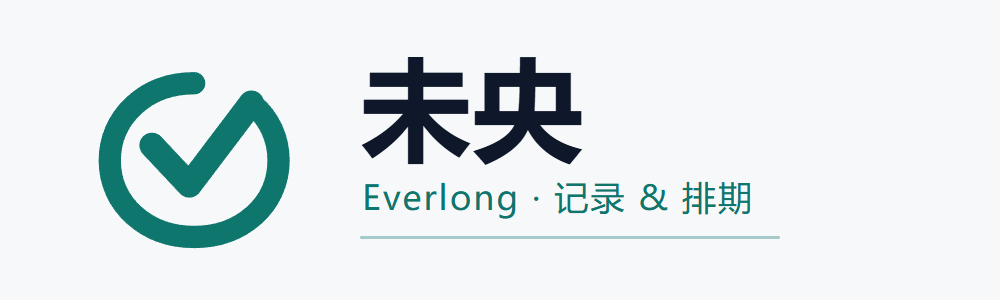
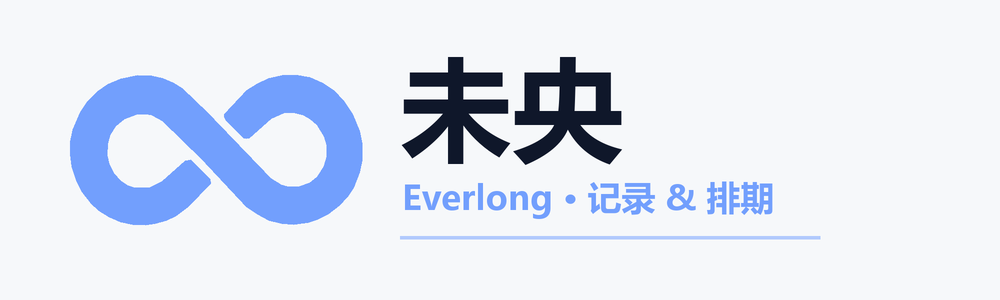
feat(brand): 全新「无限环」品牌标志
- 标志图形换成两环交叠、接续不断的无限环，替换原来「未央环 + 对勾」的设计

- 同步更新网页页签图标、PWA 应用图标（192/512）、手环端图标、二维码中心标志与 brand/ 品牌资源

- 界面内矢量标志（BrandMark）改用新路径，界面主色与其它配色保持不变

- 版本号与更新日志更新到 v0.8.1

Changed region(s): [[0.062, 0.18, 0.775, 0.84], [0.341, 0.78, 0.837, 0.81]]

diff --git a/apps/frontend/src/components/BrandMark.tsx b/apps/frontend/src/components/BrandMark.tsx
@@ -1,29 +1,18 @@
+const MARK_PATH =
+  'M 0.00 98.00 C 0.25 103.08 0.67 107.00 2.00 112.50 C 3.33 118.00 5.83 125.75 8.00 131.00 C 10.17 136.25 12.00 139.50 15.00 144.00 C 18.00 148.50 22.58 154.25 26.00 158.00 C 29.42 161.75 31.83 163.75 35.50 166.50 C 39.17 169.25 43.50 172.17 48.00 174.50 C 52.50 176.83 57.67 179.00 62.50 180.50 C 67.33 182.00 71.92 182.92 77.00 183.50 C 82.08 184.08 88.42 184.17 93.00 184.00 C 97.58 183.83 100.33 183.42 104.50 182.50 C 108.67 181.58 113.83 180.08 118.00 178.50 C 122.17 176.92 125.13 175.64 129.50 173.00 C 133.92 170.33 139.11 167.45 144.50 162.50 C 151.67 155.92 167.92 139.25 172.50 133.50 C 173.88 131.77 173.41 129.70 172.00 128.00 C 167.92 123.08 153.08 107.83 148.00 104.00 C 145.90 102.42 143.60 103.41 141.50 105.00 C 135.67 109.42 120.17 125.08 113.00 130.50 C 107.86 134.38 104.08 136.25 98.50 137.50 C 92.92 138.75 84.17 138.42 79.50 138.00 C 75.72 137.66 73.42 136.42 70.50 135.00 C 67.58 133.58 64.75 131.83 62.00 129.50 C 59.25 127.17 56.33 124.33 54.00 121.00 C 51.67 117.67 49.42 113.25 48.00 109.50 C 46.58 105.75 45.83 102.67 45.50 98.50 C 45.17 94.33 45.33 88.67 46.00 84.50 C 46.67 80.33 47.83 77.08 49.50 73.50 C 51.17 69.92 53.17 66.25 56.00 63.00 C 58.83 59.75 62.33 56.42 66.50 54.00 C 70.67 51.58 76.75 49.50 81.00 48.50 C 85.25 47.50 88.83 47.83 92.00 48.00 C 95.17 48.17 96.99 48.27 100.00 49.50 C 103.67 51.00 109.23 52.81 114.00 57.00 C 124.33 66.08 144.92 86.58 162.00 104.00 C 179.08 121.42 205.25 150.33 216.50 161.50 C 221.07 166.04 224.83 168.17 229.50 171.00 C 234.17 173.83 239.50 176.58 244.50 178.50 C 249.50 180.42 254.50 181.67 259.50 182.50 C 264.50 183.33 269.00 183.75 274.50 183.50 C 280.00 183.25 287.67 182.00 292.50 181.00 C 297.02 180.06 299.50 179.17 303.50 177.50 C 307.50 175.83 312.00 173.83 316.50 171.00 C 321.00 168.17 326.50 164.08 330.50 160.50 C 334.50 156.92 337.58 153.25 340.50 149.50 C 343.42 145.75 345.54 142.91 348.00 138.00 C 350.50 133.00 353.75 125.08 355.50 119.50 C 357.25 113.92 358.00 110.33 358.50 104.50 C 359.00 98.67 359.00 90.42 358.50 84.50 C 358.00 78.58 357.40 75.02 355.50 69.00 C 353.58 62.92 350.25 54.25 347.00 48.00 C 343.75 41.75 339.92 36.33 336.00 31.50 C 332.08 26.67 327.92 22.67 323.50 19.00 C 319.08 15.33 314.42 12.17 309.50 9.50 C 304.58 6.83 298.92 4.58 294.00 3.00 C 289.08 1.42 285.58 0.50 280.00 0.00 C 274.42 -0.50 266.58 -0.67 260.50 0.00 C 254.42 0.67 248.67 2.25 243.50 4.00 C 238.33 5.75 233.92 8.00 229.50 10.50 C 225.08 13.00 221.41 14.86 217.00 19.00 C 210.33 25.25 194.17 42.67 189.50 48.00 C 188.70 48.92 188.76 49.81 189.00 51.00 C 189.25 52.25 189.68 54.04 191.00 55.50 C 195.00 59.92 208.75 73.67 213.00 77.50 C 214.08 78.48 215.33 78.50 216.50 78.50 C 217.67 78.50 218.87 78.42 220.00 77.50 C 225.08 73.33 239.92 58.58 247.00 53.50 C 252.46 49.58 258.00 48.17 262.50 47.00 C 266.96 45.84 270.08 46.08 274.00 46.50 C 277.92 46.92 282.50 48.17 286.00 49.50 C 289.50 50.83 292.17 52.50 295.00 54.50 C 297.83 56.50 300.32 58.20 303.00 61.50 C 305.83 65.00 310.00 71.42 312.00 75.50 C 313.92 79.42 314.50 81.83 315.00 86.00 C 315.50 90.17 315.58 96.08 315.00 100.50 C 314.42 104.92 313.50 108.42 311.50 112.50 C 309.50 116.58 305.92 121.75 303.00 125.00 C 300.08 128.25 297.50 130.08 294.00 132.00 C 290.50 133.92 286.25 135.67 282.00 136.50 C 277.75 137.33 272.33 137.33 268.50 137.00 C 264.67 136.67 262.55 136.19 259.00 134.50 C 255.33 132.75 250.74 130.65 246.50 126.50 C 231.50 111.83 187.17 64.83 169.00 46.50 C 156.75 34.14 144.58 22.67 137.50 16.50 C 133.57 13.08 130.50 11.58 126.50 9.50 C 122.50 7.42 117.92 5.42 113.50 4.00 C 109.08 2.58 105.08 1.58 100.00 1.00 C 94.92 0.42 89.25 -0.08 83.00 0.50 C 76.75 1.08 68.58 2.67 62.50 4.50 C 56.42 6.33 51.25 8.92 46.50 11.50 C 41.75 14.08 38.25 16.42 34.00 20.00 C 29.75 23.58 24.58 28.75 21.00 33.00 C 17.42 37.25 15.27 40.12 12.50 45.50 C 9.58 51.17 5.50 60.92 3.50 67.00 C 1.59 72.81 1.08 76.83 0.50 82.00 C -0.08 87.17 -0.25 92.92 0.00 98.00 Z'
+
 export function BrandMark({ size = 20, className }: { size?: number; className?: string }) {
   return (
     <svg
       width={size}
       height={size}
-      viewBox="55 90 402 376"
+      viewBox="-1 -1 360.5 186"
       fill="none"
       className={className}
       aria-hidden="true"
     >
-      {/* open ring (未央 = not yet closed) */}
-      <path
-        d="M 256 118 C 154 118 82 190 82 277 C 82 369 159 435 256 435 C 353 435 430 369 430 277 C 430 231 410 190 379 164"
-        stroke="currentColor"
-        strokeWidth="46"
-        strokeLinecap="round"
-        strokeLinejoin="round"
-      />
-      {/* rising check */}
-      <path
-        d="M 169 246 L 246 328 L 374 159"
-        stroke="currentColor"
-        strokeWidth="52"
-        strokeLinecap="round"
-        strokeLinejoin="round"
-      />
+      {/* infinity（未央 = 仍在途中：两端交叠、始终没有闭合） */}
+      <path d={MARK_PATH} fill="currentColor" />
     </svg>
   )
 }

diff --git a/apps/frontend/src/lib/changelog.ts b/apps/frontend/src/lib/changelog.ts
@@ -12,7 +12,7 @@ export interface ChangelogEntry {
   items: ChangelogItem[]
 }
 
-export const CURRENT_VERSION = 'v0.8.0'
+export const CURRENT_VERSION = 'v0.8.1'
 
 export const CHANGELOG_KIND_META: Record<ChangelogKind, { label: string; className: string }> = {
   feature: { label: '新增', className: 'bg-teal-50 text-teal-700 dark:bg-teal-500/15 dark:text-teal-300' },
@@ -22,6 +22,25 @@ export const CHANGELOG_KIND_META: Record<ChangelogKind, { label: string; classNa
 }
 
 export const CHANGELOG: ChangelogEntry[] = [
+  {
+    version: 'v0.8.1',
+    date: '2026-09-29',
+    title: '全新品牌标志',
+    items: [
+      {
+        kind: 'feature',
+        text: '品牌标志换成新的「无限环」：两个环彼此接续、始终没有闭合，延续「未央」——没有终点，仍在途中',
+      },
+      {
+        kind: 'improvement',
+        text: '网页页签图标、PWA 应用图标、手机主屏图标、手环端图标与二维码中心标志同步换新，桌面端与移动端保持一致',
+      },
+      {
+        kind: 'notice',
+        text: '本次只替换标志图形，界面主色（青绿）与其它配色保持不变；已安装到主屏幕的应用图标可能会在系统缓存过期后更新',
+      },
+    ],
+  },
   {
     version: 'v0.8.0',
     date: '2026-09-29',

diff --git a/backend/app/config.py b/backend/app/config.py
@@ -2,7 +2,7 @@ from pydantic_settings import BaseSettings, SettingsConfigDict
 
 
 # 应用版本号：main.py 的 OpenAPI 与 /api/health 都读这里，避免多处各写一份
-APP_VERSION = "0.8.0"
+APP_VERSION = "0.8.1"
 
 
 class Settings(BaseSettings):
